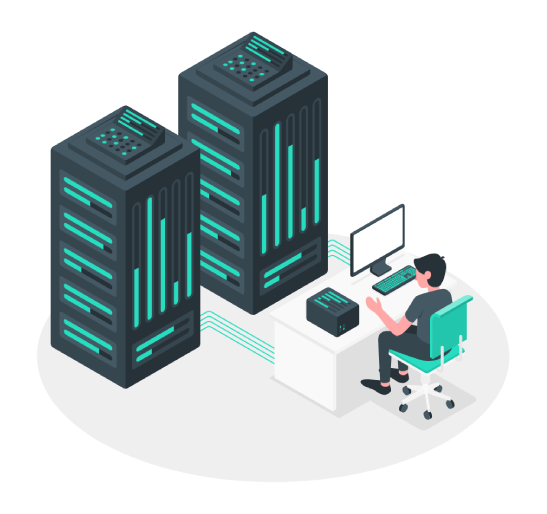
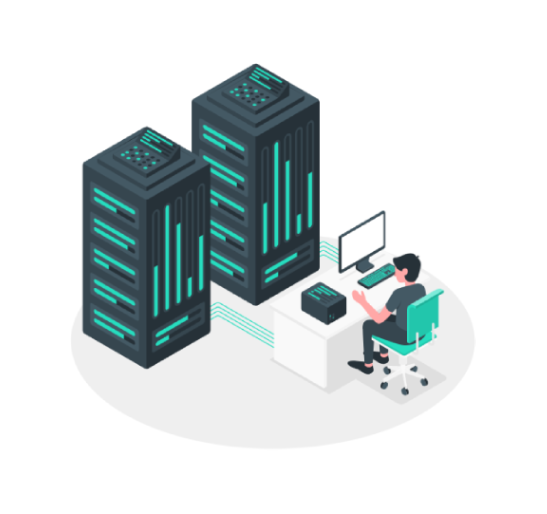
fix skills

Changed region(s): [[0.0932, 0.0623, 0.8702, 0.8405]]

diff --git a/public/js/data/projects.js b/public/js/data/projects.js
@@ -14,7 +14,7 @@ list_projects = [
         "href": "https://github.com/BaoVStorm/King_The_Lost"
     },
     {
-        "img": "https://github.com/user-attachments/assets/dfcbef73-53d5-44e7-bf85-f8978d1c09d6",
+        "img": "assets/projects/portfolio.png",
         "title": "My Portfolio - Website",
         "des": "This is my personal project — a website to introduce myself with ReactJS. Additionally, it serves as a platform to showcase my skills and continuously improve them through practice.",
         "href": "https://github.com/BaoVStorm/Portfolio_React"
@@ -26,7 +26,7 @@ list_projects = [
         "href": "https://github.com/coconerd/plant-ecommerce"
     },
     {
-        "img": "https://raw.githubusercontent.com/coconerd/uiteco-swing/refs/heads/main/src/main/resources/UITeco-funlogo.png",
+        "img":  "assets/projects/uit.png",
         "title": "UITeco - Desktop App",
         "des": "A team project with <i>COCONERD</i> — my best team in university. This project is about an app that serves not only as a forum but also as a bridge connecting teachers, alumni, and students.",
         "href": "https://github.com/coconerd/uiteco-swing"
@@ -50,7 +50,7 @@ list_projects = [
         "href": "https://github.com/coconerd/LessIsMore_Tomato"
     },
     {
-        "img": "https://img.freepik.com/free-vector/virtual-currency-flat-style-banners-set_1284-15605.jpg",
+        "img": "assets/projects/attack.png",
         "title": "Inversion Attack - Security",
         "des": "Inversion Attack is an attack technique in the field of security and machine learning, aimed at reconstructing the original data from the output or weights of an AI model.",
         "href": "https://github.com/BaoVStorm/InversionAttack"

diff --git a/public/css/mainCSS.css b/public/css/mainCSS.css
@@ -911,7 +911,7 @@ body {
         display: flex;
         flex-wrap: wrap;
         justify-content: center;
-        gap:50px 40px; 
+        gap:70px 40px; 
     }
 
         .detail-box-project {
@@ -932,7 +932,6 @@ body {
                 height: 100%;
                 min-width: 320px;
                 width: 320px;
-                overflow: hidden;
                 position: relative;
                 display: flex;
                 align-items: center;
@@ -948,13 +947,19 @@ body {
                     width: 100%;
                     height: 100%;
                     position: absolute;
-                    transition: transform 0.25s ease-in-out;
+                    transition: transform 0.25s ease-in-out, filter 0.2s ease-in-out;
                     object-fit: cover;
                     object-position: center;
                 }
 
-                .image-box-project:hover img{
+                .detail-box-project.light .image-box-project:hover img{
                     transform: scale(1.15);
+                    filter: drop-shadow(0 0 15px #fab41050);
+                }
+
+                .detail-box-project.dark .image-box-project:hover img{
+                    transform: scale(1.15);
+                    filter: drop-shadow(0 0 15px #00c90a50);
                 }
 
 

diff --git a/public/js/data/about.js b/public/js/data/about.js
@@ -13,7 +13,7 @@ let list_achie = [
     },
     {
         name: "gpa",
-        value: "3.6x"
+        value: "3.5x"
     }
 ];
 
